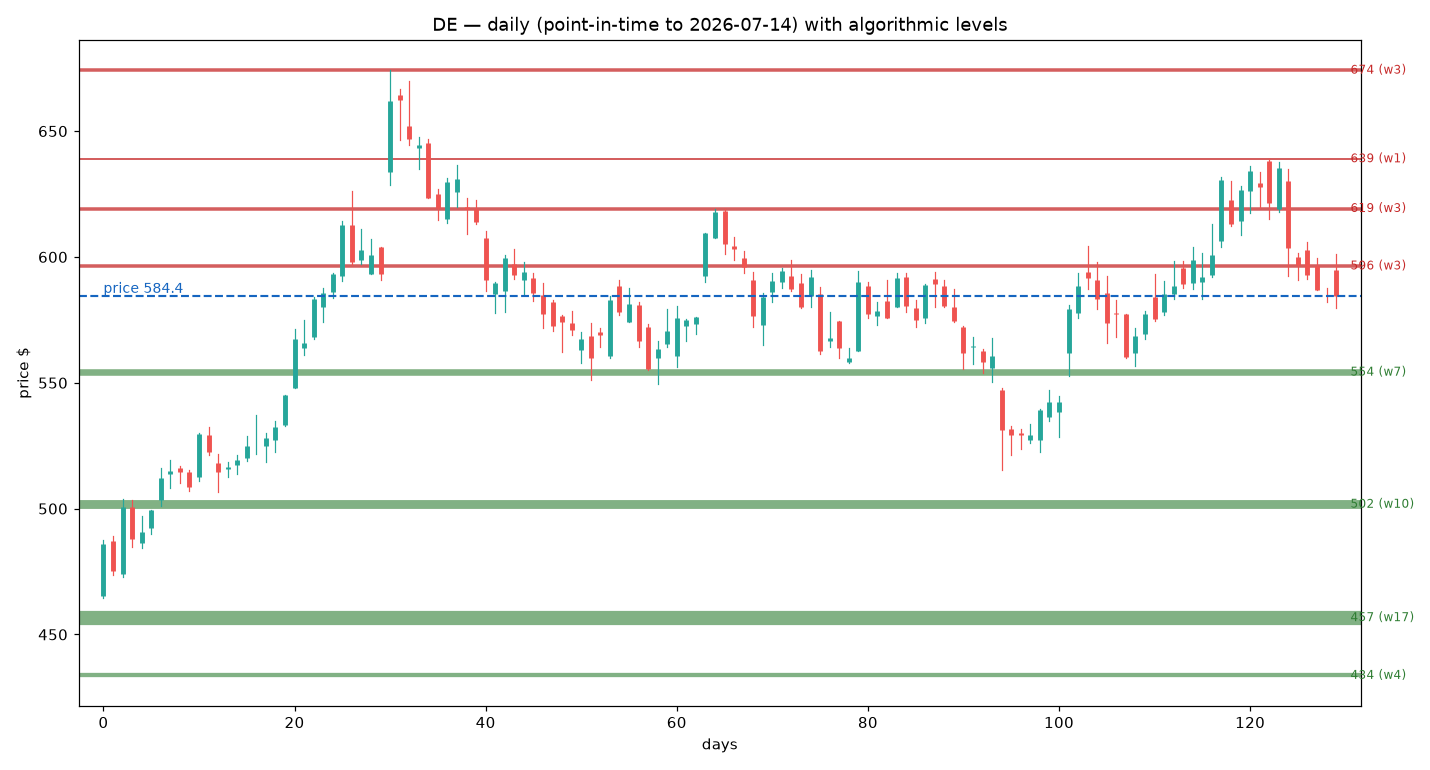
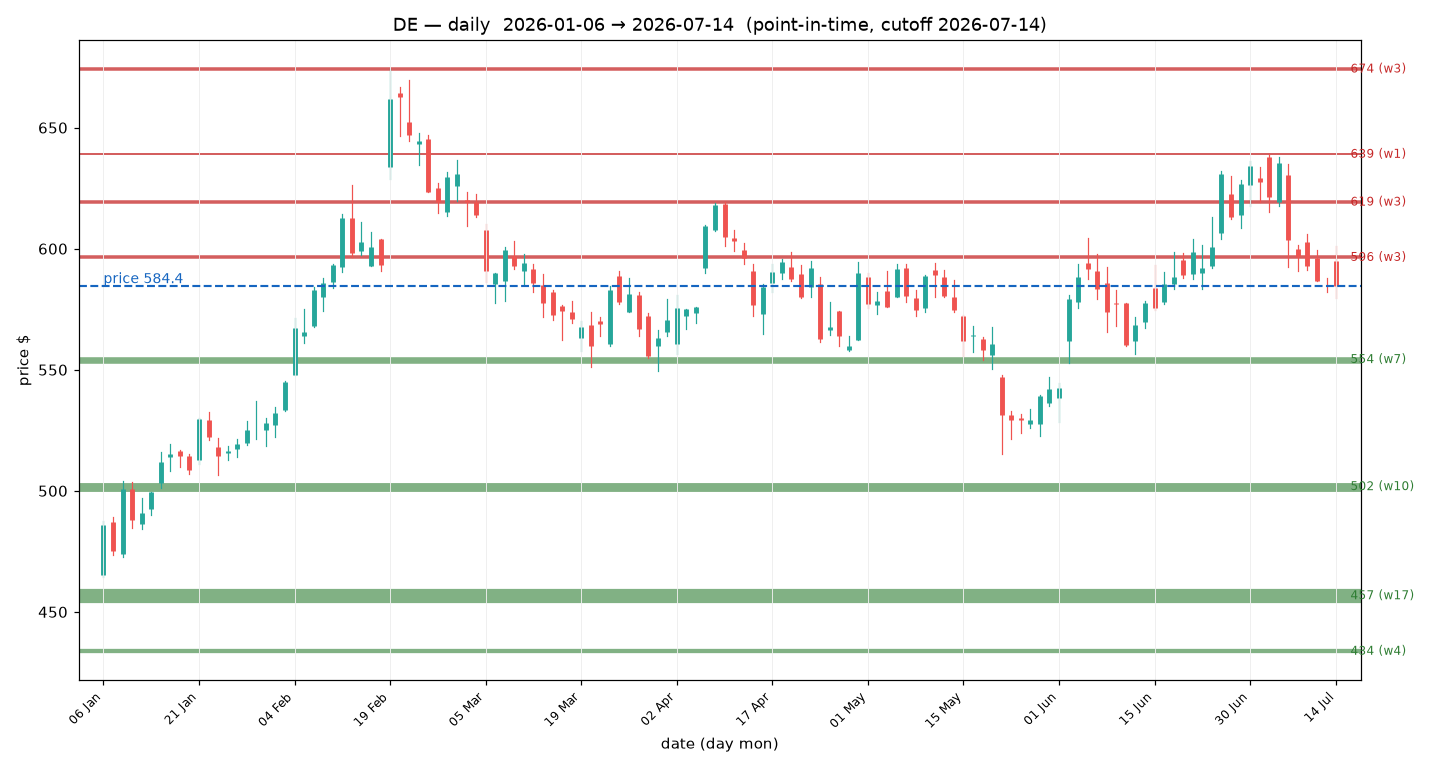
chore(smrtTrade): add real date axis to DE demo chart for cross-check
X-axis now shows actual dates (06 Jan -> 14 Jul 2026, day+month ticks)
instead of a day index, so the rendered chart can be compared against a
real DE chart to verify the point-in-time data matches.

Claude-Session: https://claude.ai/code/session_01NS3Hn7XpV6EUg6MSiBpSQc

diff --git a/docs/smrttrade-spike/demo_de.py b/docs/smrttrade-spike/demo_de.py
@@ -42,8 +42,15 @@ for z in lv["support"][:4]:
     ax.text(len(d) + 0.5, z["center"], f"{z['center']:.0f} (w{z['weight']})", color="#2e7d32", va="center", fontsize=8)
 ax.axhline(lv["price"], color="#1565c0", lw=1.4, ls="--", zorder=2)
 ax.text(0, lv["price"], f"price {lv['price']:.1f}", color="#1565c0", va="bottom", fontsize=9)
-ax.set_title(f"{TK} — daily (point-in-time to {H.CUTOFF}) with algorithmic levels")
-ax.set_xlabel("days"); ax.set_ylabel("price $"); ax.margins(x=0.02)
+# ── תאריכים אמיתיים על ציר-ה-X (חודש+יום) להשוואה מול גרף אמיתי ──
+dates = [r[0] for r in d]                      # 'YYYY-MM-DD'
+import datetime as _dt
+ticks = list(range(0, len(d), 10)) + [len(d) - 1]
+labels = [_dt.date.fromisoformat(dates[i]).strftime("%d %b") for i in ticks]  # e.g. 14 Jul
+ax.set_xticks(ticks); ax.set_xticklabels(labels, rotation=45, ha="right", fontsize=8)
+ax.set_title(f"{TK} — daily  {dates[0]} → {dates[-1]}  (point-in-time, cutoff {H.CUTOFF})")
+ax.set_xlabel("date (day mon)"); ax.set_ylabel("price $"); ax.margins(x=0.02)
+ax.grid(axis="x", color="#eeeeee", lw=0.6, zorder=0)
 plt.tight_layout()
 out = "de_levels.png"
 plt.savefig(out, dpi=110)